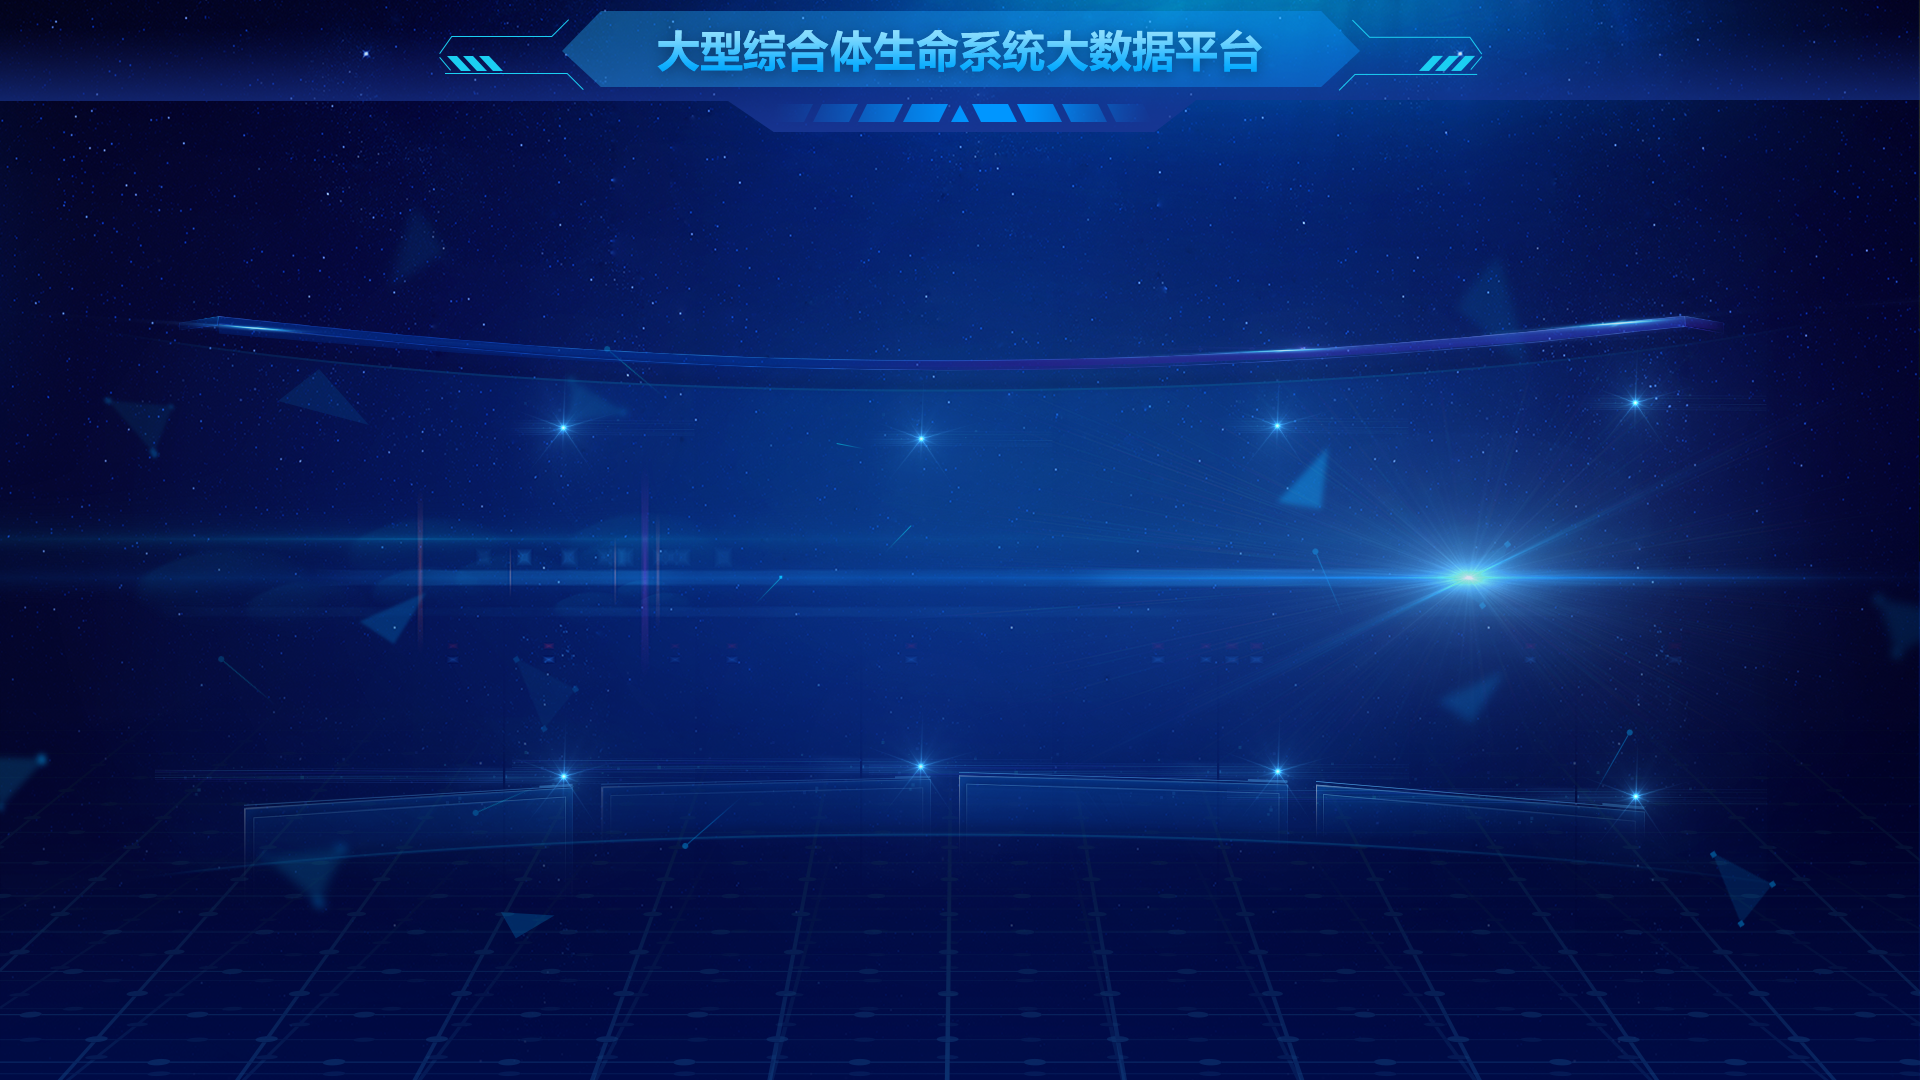
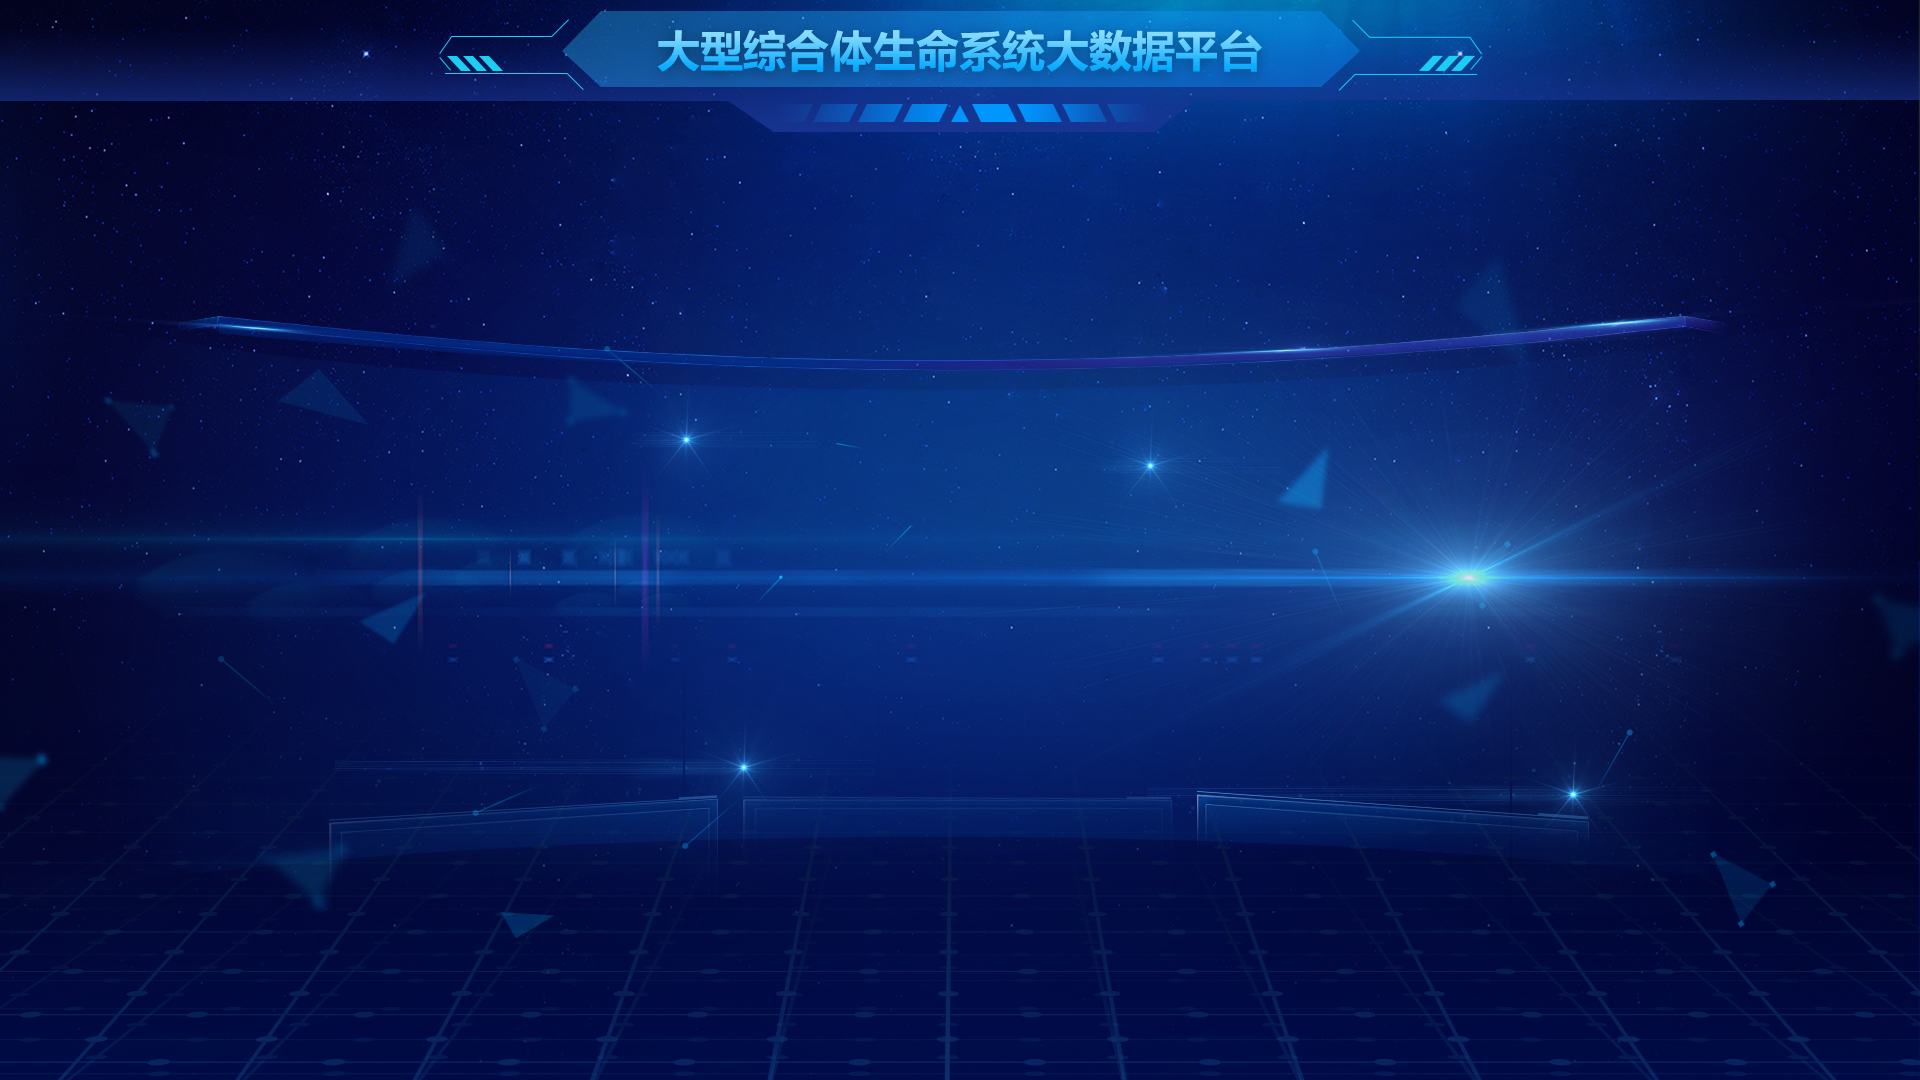
system_select

diff --git a/src/components/SuperOverview.vue b/src/components/SuperOverview.vue
@@ -24,9 +24,9 @@
       </el-col>
     </el-row>
     <img id="img1_bg" :src="imgSrc1" @click="enterDB" alt=""
-         style="width: 17.1%; left: 12.7%; top: 41.4%; z-index: 99; position: absolute;"/>
+         style="width: 20.4%; left: 17.1%; top: 40.4%; z-index: 99; position: absolute;"/>
     <img id="img2_bg" :src="imgSrc2" alt=""
-         style="width: 17.1%; left: 31.3%; top: 43.5%; z-index: 1; position: absolute;"/>
+         style="width: 22.2%; left: 38.7%; top: 43.4%; z-index: 1; position: absolute;"/>
     <el-dropdown @command="handleCommand" style="z-index: 2">
       <el-button style="background-image: url(../assets/data_vis.png);
 left:-4.5rem; top:2.8rem;
@@ -40,10 +40,8 @@ position: absolute">
         </el-dropdown-item>
       </el-dropdown-menu>
     </el-dropdown>
-    <img :src="imgSrc3" @click="enterDataAnalysis" alt=""
-         style="width: 17.1%; left: 50%; top: 43.5%; z-index: 99; position: absolute;"/>
     <img :src="imgSrc4" @click="enterDataInsight" alt=""
-         style="width: 17.1%; left: 68.5%; top: 41.4%; z-index: 99; position: absolute;"/>
+         style="width: 20.4%; left: 62.4%; top: 41.4%; z-index: 99; position: absolute;"/>
   </div>
 </template>
 
@@ -55,7 +53,6 @@ export default {
       headList: [],
       imgSrc1: require('../assets/db_vis.png'),
       imgSrc2: require('../assets/data_vis.png'),
-      imgSrc3: require('../assets/data_analysis.png'),
       imgSrc4: require('../assets/data_insight.png'),
       timer: null,
       nowWeek: "",
